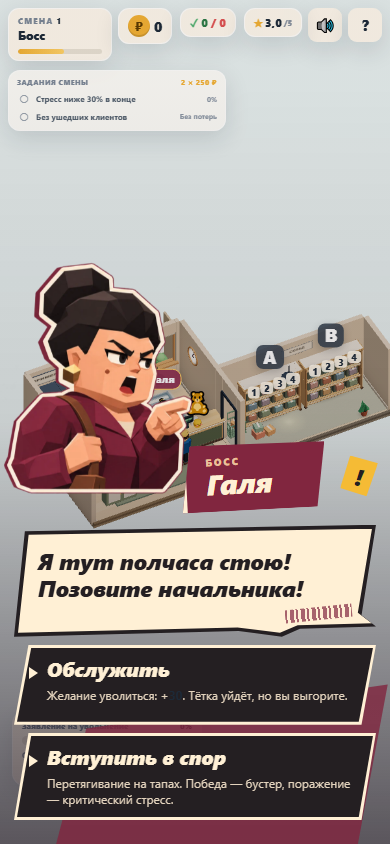
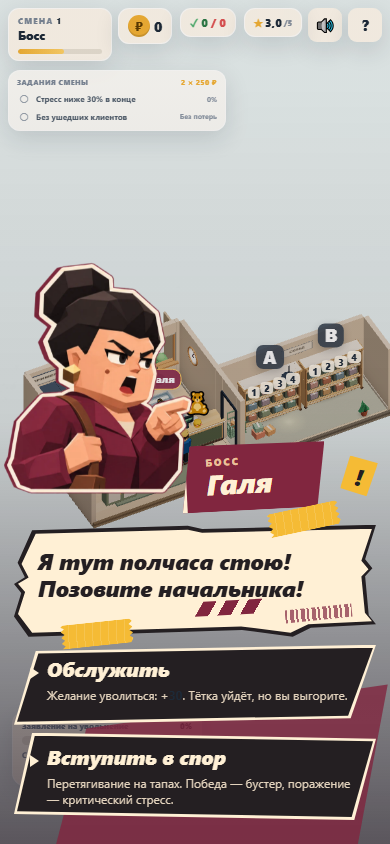
style: refine Galya speech card bevels and paper accents

diff --git a/src/ui/bossDialogue.css b/src/ui/bossDialogue.css
@@ -1,5 +1,6 @@
 /* A cut-paper stage over the actual PVZ. No canvas, blur or fullscreen flashes. */
-.dialogue-portrait {
+.dialogue-portrait,
+.dialogue-trim {
   display: none;
 }
 body.in-boss-dialogue #banner {
@@ -163,7 +164,26 @@ body.in-boss-dialogue .client-bubble {
   border-radius: 0;
   color: var(--dialogue-ink);
   background: var(--dialogue-ink);
-  clip-path: polygon(3% 6%, 100% 0, 96% 81%, 100% 91%, 79% 93%, 74% 100%, 62% 95%, 0 100%);
+  clip-path: polygon(
+    5% 5%,
+    48% 1%,
+    52% 4%,
+    100% 0,
+    97% 31%,
+    99% 39%,
+    97% 46%,
+    98% 81%,
+    100% 89%,
+    82% 92%,
+    77% 100%,
+    63% 94%,
+    4% 100%,
+    0 82%,
+    2% 61%,
+    0 53%,
+    3% 47%,
+    1% 34%
+  );
   font-size: clamp(23px, 2.25vw, 38px);
   font-style: italic;
   font-weight: 900;
@@ -196,6 +216,66 @@ body.in-boss-dialogue .client-bubble {
   opacity: 0.7;
 }
 
+/* Separate, non-interactive paper trim can cross the clipped speech-card edges. */
+.dialogue-scene .dialogue-trim {
+  position: absolute;
+  grid-area: quote;
+  inset: 0;
+  display: block;
+  pointer-events: none;
+  z-index: 3;
+}
+.dialogue-scene[data-dialogue-mode='final'] .dialogue-trim {
+  display: none;
+}
+.dialogue-tape {
+  position: absolute;
+  width: clamp(72px, 7vw, 110px);
+  height: 24px;
+  background: var(--dialogue-gold);
+  background-image: repeating-linear-gradient(94deg, #fff2 0 1px, transparent 1px 8px);
+  clip-path: polygon(
+    4% 0,
+    96% 0,
+    100% 10%,
+    95% 22%,
+    100% 34%,
+    95% 46%,
+    100% 58%,
+    95% 70%,
+    100% 82%,
+    96% 100%,
+    0 100%,
+    5% 88%,
+    0 76%,
+    5% 64%,
+    0 52%,
+    5% 40%,
+    0 28%,
+    5% 16%,
+    0 8%
+  );
+}
+.dialogue-tape.top {
+  top: -18px;
+  right: 10%;
+  transform: rotate(-12deg);
+}
+.dialogue-tape.bottom {
+  bottom: -9px;
+  left: 13%;
+  transform: rotate(-6deg);
+}
+.dialogue-slashes {
+  position: absolute;
+  right: 112px;
+  bottom: 22px;
+  width: 64px;
+  height: 15px;
+  background: repeating-linear-gradient(90deg, var(--dialogue-wine) 0 13px, transparent 13px 22px);
+  transform: skewX(-32deg) rotate(-3deg);
+}
+
 .dialogue-scene #boss-choice-view {
   grid-area: choices;
   gap: 12px;
@@ -206,12 +286,15 @@ body.in-boss-dialogue .client-bubble {
   isolation: isolate;
   min-height: 100px;
   gap: 7px;
-  padding: 16px 24px 16px 33px;
+  padding: 16px 32px 16px 44px;
   border: 0;
   border-radius: 0;
   background: var(--dialogue-cream);
-  clip-path: polygon(4% 0, 100% 0, 96% 100%, 0 100%);
+  clip-path: polygon(6% 8%, 100% 0, 93% 92%, 0 100%);
   transition: transform 130ms ease-out;
+}
+.dialogue-scene .boss-choice.argue {
+  clip-path: polygon(5% 0, 100% 7%, 94% 100%, 0 93%);
 }
 .dialogue-scene .boss-choice::before {
   content: '';
@@ -226,7 +309,7 @@ body.in-boss-dialogue .client-bubble {
   content: '';
   position: absolute;
   top: 22px;
-  left: 15px;
+  left: clamp(16px, 1.45vw, 23px);
   border-left: 9px solid currentColor;
   border-top: 6px solid transparent;
   border-bottom: 6px solid transparent;

diff --git a/index.html b/index.html
@@ -241,6 +241,11 @@
             </div>
 
             <div class="boss-quote" id="boss-quote">Вы вообще работаете? Мне быстро надо!</div>
+            <div class="dialogue-trim" aria-hidden="true">
+              <i class="dialogue-tape top"></i>
+              <i class="dialogue-tape bottom"></i>
+              <i class="dialogue-slashes"></i>
+            </div>
 
             <div id="boss-choice-view">
               <button id="boss-serve" class="boss-choice serve" type="button">

diff --git a/docs/GALYA_DIALOGUE_SCENE.md b/docs/GALYA_DIALOGUE_SCENE.md
@@ -30,6 +30,13 @@
 
 [Телефон, landscape](screenshots/galya/choice-landscape.png) · [Телефон, portrait](screenshots/galya/choice-portrait.png)
 
+## Уточнение после одобрения образа
+
+- У основной реплики уточнён ломаный контур: ступенька сверху, боковые вырезы и асимметричный нижний край. Внутренние отступы защищают текст от срезов.
+- У двух ответов усилены скосы в разных направлениях; обводка и hover/focus следуют форме кнопок.
+- Добавлены два кусочка жёлтого скотча с рваными краями и три бордовых комиксных штриха рядом со штрихкодом. Декор находится в отдельном `aria-hidden` слое с `pointer-events: none` и не перекрывает ввод.
+- Это CSS/HTML-уточнение: портреты, реплики, callback-и и анимации не менялись, новых ассетов/эффектов не добавлено. Скриншоты desktop/landscape/portrait, спора и результата обновлены. Perf-метрики ниже относятся к исходному проходу `751c19d`; для этого статичного уточнения повторяются build, unit и весь e2e.
+
 ## Устройство и расширение
 
 `BossView` сохраняет публичные методы и действия. `BossDialogueScene` — view-контроллер композиции, эмоций, коротких анимаций и фокуса; он не владеет текстом или состоянием encounter. `bossDialogue.css` действует только под `.dialogue-scene`. `game.ts`, `data.ts`, экономика, boss systems и 3D-ресурсы не менялись.
